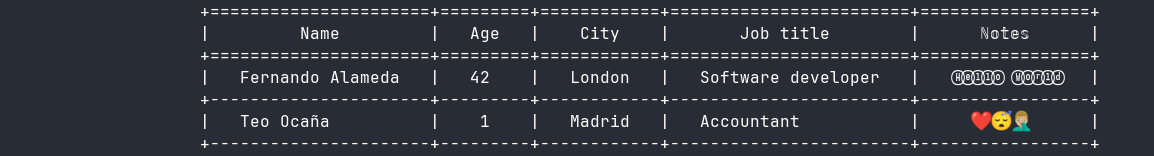
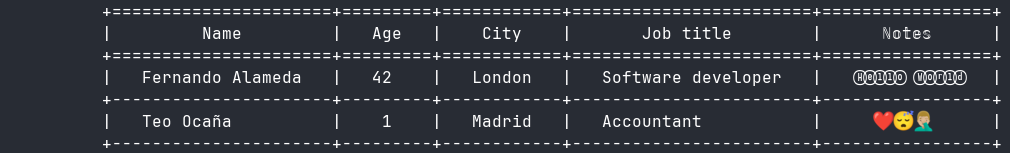
Update Readme

diff --git a/examples/basic_usage.rs b/examples/basic_usage.rs
@@ -1,12 +1,8 @@
-use tprint::{TPrint, TPrintAlign, TPrintOutputString};
-use std::cell::RefCell;
-use std::rc::Rc;
+use tprint::{TPrint, TPrintAlign};
 
 fn main() {
-
-
-    println!("1. Basic usage example: a table with 5 columns and 2 rows, with 20 spaces of padding from the left:");
-    TPrint::new(true, true, 20, 3).
+    println!("1. Basic usage example: a table with 5 columns and 2 rows, with 10 spaces of padding from the left:");
+    TPrint::new(true, true, 10, 3).
         column_add("Name", TPrintAlign::Center, TPrintAlign::Left).
         column_add("Age", TPrintAlign::Center, TPrintAlign::Center).
         column_add("City", TPrintAlign::Center, TPrintAlign::Right).
@@ -25,8 +21,8 @@ fn main() {
         print();
     println!();
 
-    println!("2. Basic usage example: a table without borders with 5 columns and 2 rows, with 20 spaces of padding from the left:");
-    TPrint::new(false, true, 20, 3).
+    println!("2. Basic usage example: a table without borders with 5 columns and 2 rows, with 10 spaces of padding from the left:");
+    TPrint::new(false, true, 10, 3).
         column_add("Name", TPrintAlign::Center, TPrintAlign::Left).
         column_add("Age", TPrintAlign::Center, TPrintAlign::Center).
         column_add("City", TPrintAlign::Center, TPrintAlign::Right).
@@ -45,8 +41,8 @@ fn main() {
         print();
     println!();
 
-    println!("3. Basic usage example: a table without borders and headers with 5 columns and 2 rows, with 20 spaces of padding from the left:");
-    TPrint::new(false, false, 20, 3).
+    println!("3. Basic usage example: a table without borders and headers with 5 columns and 2 rows, with 10 spaces of padding from the left:");
+    TPrint::new(false, false, 10, 3).
         column_add("Name", TPrintAlign::Center, TPrintAlign::Left).
         column_add("Age", TPrintAlign::Center, TPrintAlign::Center).
         column_add("City", TPrintAlign::Center, TPrintAlign::Right).
@@ -64,27 +60,4 @@ fn main() {
         add_data("❤😴🤦🏼♂").
         print();
     println!();
-
-    println!("4. Basic usage example: a table printed to a string, then print the string to stdout");
-    // Print output to a string
-    let str_output = Rc::new(RefCell::new(TPrintOutputString::new()));
-    let mut str_tprint = TPrint::new_with_output(str_output.clone(), true, true, 0, 1);
-
-    str_tprint.column_add("Left", TPrintAlign::Left, TPrintAlign::Left);
-    str_tprint.column_add("Center", TPrintAlign::Center, TPrintAlign::Center);
-    str_tprint.column_add("Right", TPrintAlign::Right, TPrintAlign::Right);
-    str_tprint.add_data("");
-    str_tprint.add_data("");
-    str_tprint.add_data("");
-
-    let j:i64 = 10;
-    const MAX:u32 = 10;
-    for i in 0..MAX {
-        str_tprint.add_data(j.pow(i).to_string());
-        str_tprint.add_data(j.pow(i).to_string());
-        str_tprint.add_data(j.pow(MAX-i-1).to_string());
-    }
-    str_tprint.print();
-
-    println!("{}", str_output.borrow().get_str());
 }

diff --git a/examples/string_output.rs b/examples/string_output.rs
@@ -1,0 +1,27 @@
+use tprint::{TPrint, TPrintAlign, TPrintOutputString, TPrintBordersUnicode};
+use std::cell::RefCell;
+use std::rc::Rc;
+
+fn main() {
+    let str_output = Rc::new(RefCell::new(TPrintOutputString::new()));
+    let borders = Rc::new(RefCell::new(TPrintBordersUnicode {}));
+    let mut str_tprint = TPrint::new_with_borders_output(borders, str_output.clone(), true, true, 0, 1);
+
+    str_tprint.column_add("Left", TPrintAlign::Left, TPrintAlign::Left);
+    str_tprint.column_add("Center", TPrintAlign::Center, TPrintAlign::Center);
+    str_tprint.column_add("Right", TPrintAlign::Right, TPrintAlign::Right);
+    str_tprint.add_data("");
+    str_tprint.add_data("");
+    str_tprint.add_data("");
+
+    let j:i64 = 10;
+    const MAX:u32 = 10;
+    for i in 0..MAX {
+        str_tprint.add_data(j.pow(i).to_string());
+        str_tprint.add_data(j.pow(i).to_string());
+        str_tprint.add_data(j.pow(MAX-i-1).to_string());
+    }
+    str_tprint.print();
+
+    println!("{}", str_output.borrow().get_str());
+}

diff --git a/src/borders.rs b/src/borders.rs
@@ -172,7 +172,6 @@ impl TPrintBorders for TPrintBordersUnicode {
 
 pub struct TPrintBordersHTML {}
 
-
 static TPRINT_BORDERS_HTML_TABLE: &[TPrintBordersTable] = &[
     TPrintBordersTable { border_type: TPrintBordersType::WhiteSpace, border: "" },
     TPrintBordersTable { border_type: TPrintBordersType::NewLine, border: "" },

diff --git a/README.md b/README.md
@@ -1,6 +1,7 @@
 # tprint
 
-A simple crate to print tabular data
+A simple crate to print tabular data.
+A similar C++ library: [libtprint](https://github.com/wizzard/libtprint)
 
 ## Features
 
@@ -15,8 +16,9 @@ A simple crate to print tabular data
 
 ```rust
 use tprint::{TPrint, TPrintAlign};
+
 fn main() {
-    TPrint::new(true, true, 20, 3).
+    TPrint::new(true, true, 10, 3).
         column_add("Name", TPrintAlign::Center, TPrintAlign::Left).
         column_add("Age", TPrintAlign::Center, TPrintAlign::Center).
         column_add("City", TPrintAlign::Center, TPrintAlign::Right).
@@ -41,12 +43,14 @@ fn main() {
 ### Output to a String
 
 ```rust
-use tprint::{TPrint, TPrintAlign, TPrintOutputString};
+use tprint::{TPrint, TPrintAlign, TPrintOutputString, TPrintBordersUnicode};
 use std::cell::RefCell;
 use std::rc::Rc;
+
 fn main() {
     let str_output = Rc::new(RefCell::new(TPrintOutputString::new()));
-    let mut str_tprint = TPrint::new_with_output(str_output.clone(), true, true, 0, 1);
+    let borders = Rc::new(RefCell::new(TPrintBordersUnicode {}));
+    let mut str_tprint = TPrint::new_with_borders_output(borders, str_output.clone(), true, true, 0, 1);
 
     str_tprint.column_add("Left", TPrintAlign::Left, TPrintAlign::Left);
     str_tprint.column_add("Center", TPrintAlign::Center, TPrintAlign::Center);
@@ -106,3 +110,7 @@ fn main() {
 ![Output to a HTML](images/output_to_html.png)
 
 More examples in `examples` folder.
+
+## License
+
+Licensed under the Apache License, Version 2.0 (the "License").
